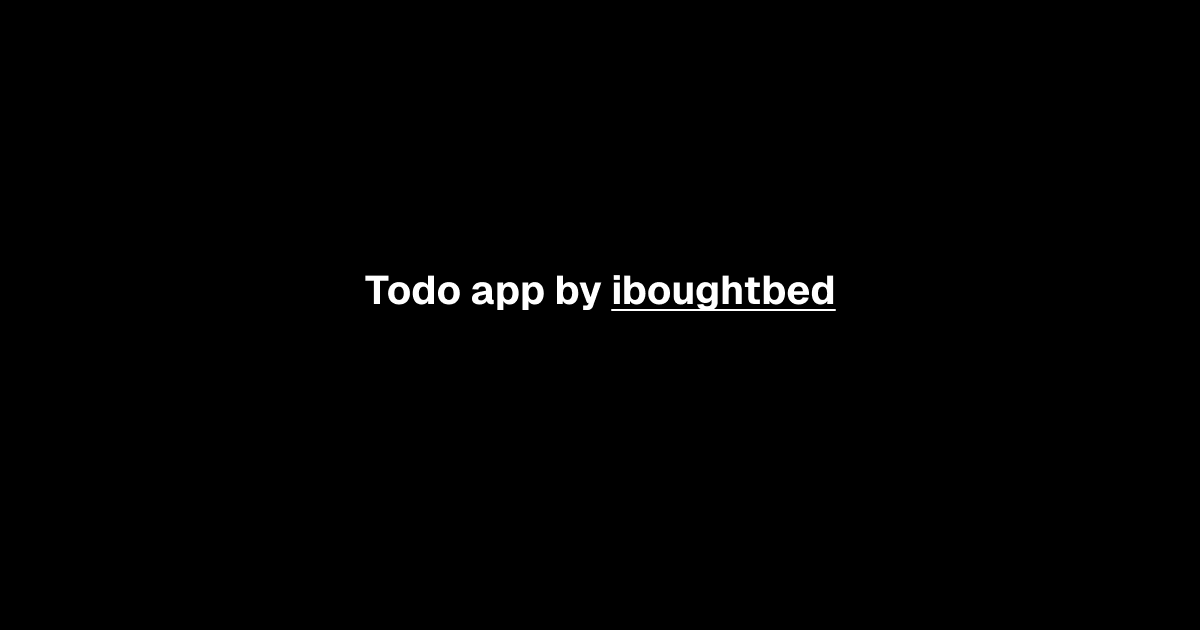
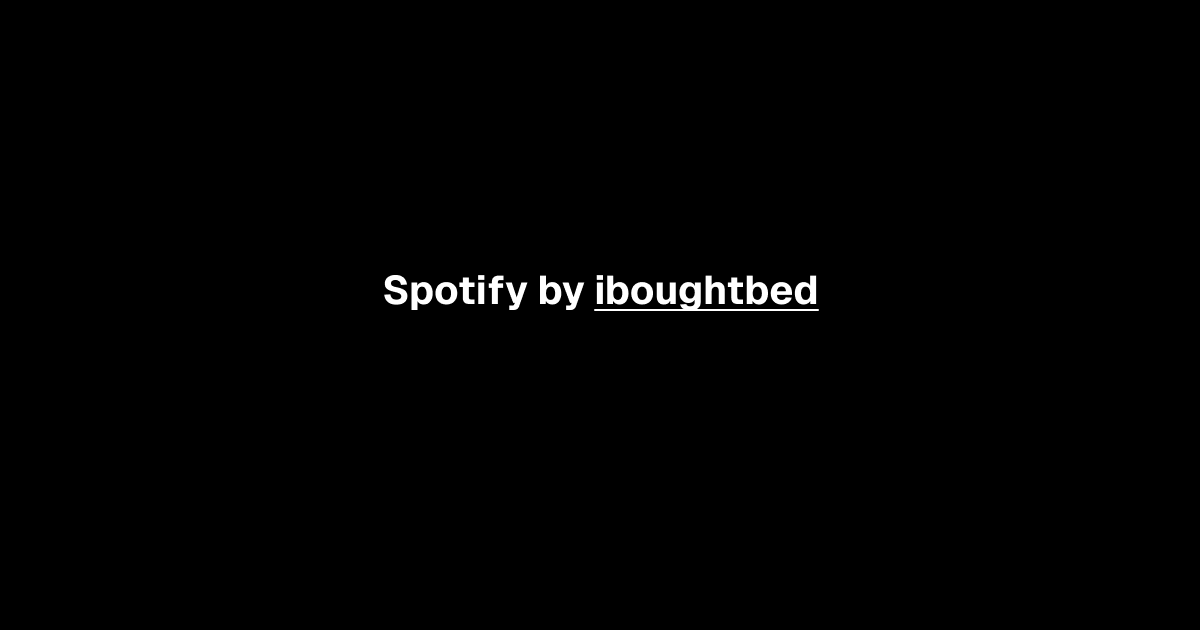
chore: update readme and opengraph image

Changed region(s): [[0.3083, 0.4222, 0.7092, 0.5127]]

diff --git a/README.md b/README.md
@@ -1,8 +1,8 @@
-# [Blog](https://iboughtbed-nf-hw-spotify-clone.vercel.app/)
+# [Spotify](https://iboughtbed-nf-hw-spotify-clone.vercel.app/)
 
-This is an open source todo app build with everything new in Next.js 14. It is bootstrapped with `create-t3-app`.
+This is an open source spotify clone build with everything new in Next.js 14. It is bootstrapped with `create-t3-app`.
 
-[![Blog](./public/og.png)](https://iboughtbed-nf-hw-spotify-clone.vercel.app/)
+[![Spotify](./public/og.png)](https://iboughtbed-nf-hw-spotify-clone.vercel.app/)
 
 ## Tech Stack
 
@@ -15,6 +15,7 @@ This is an open source todo app build with everything new in Next.js 14. It is b
 - [x] I'm just messing with you
 - [x] But I loved her tho
 - [x] And we ended it on good terms
+- [x] But I miss her tho
 
 ## Running Locally
 
@@ -44,7 +45,7 @@ This is an open source todo app build with everything new in Next.js 14. It is b
 
 ## Introduction
 
-This is nFactorial Incubator homework for day 2
+This is nFactorial Incubator homework
 
 ## License
 
